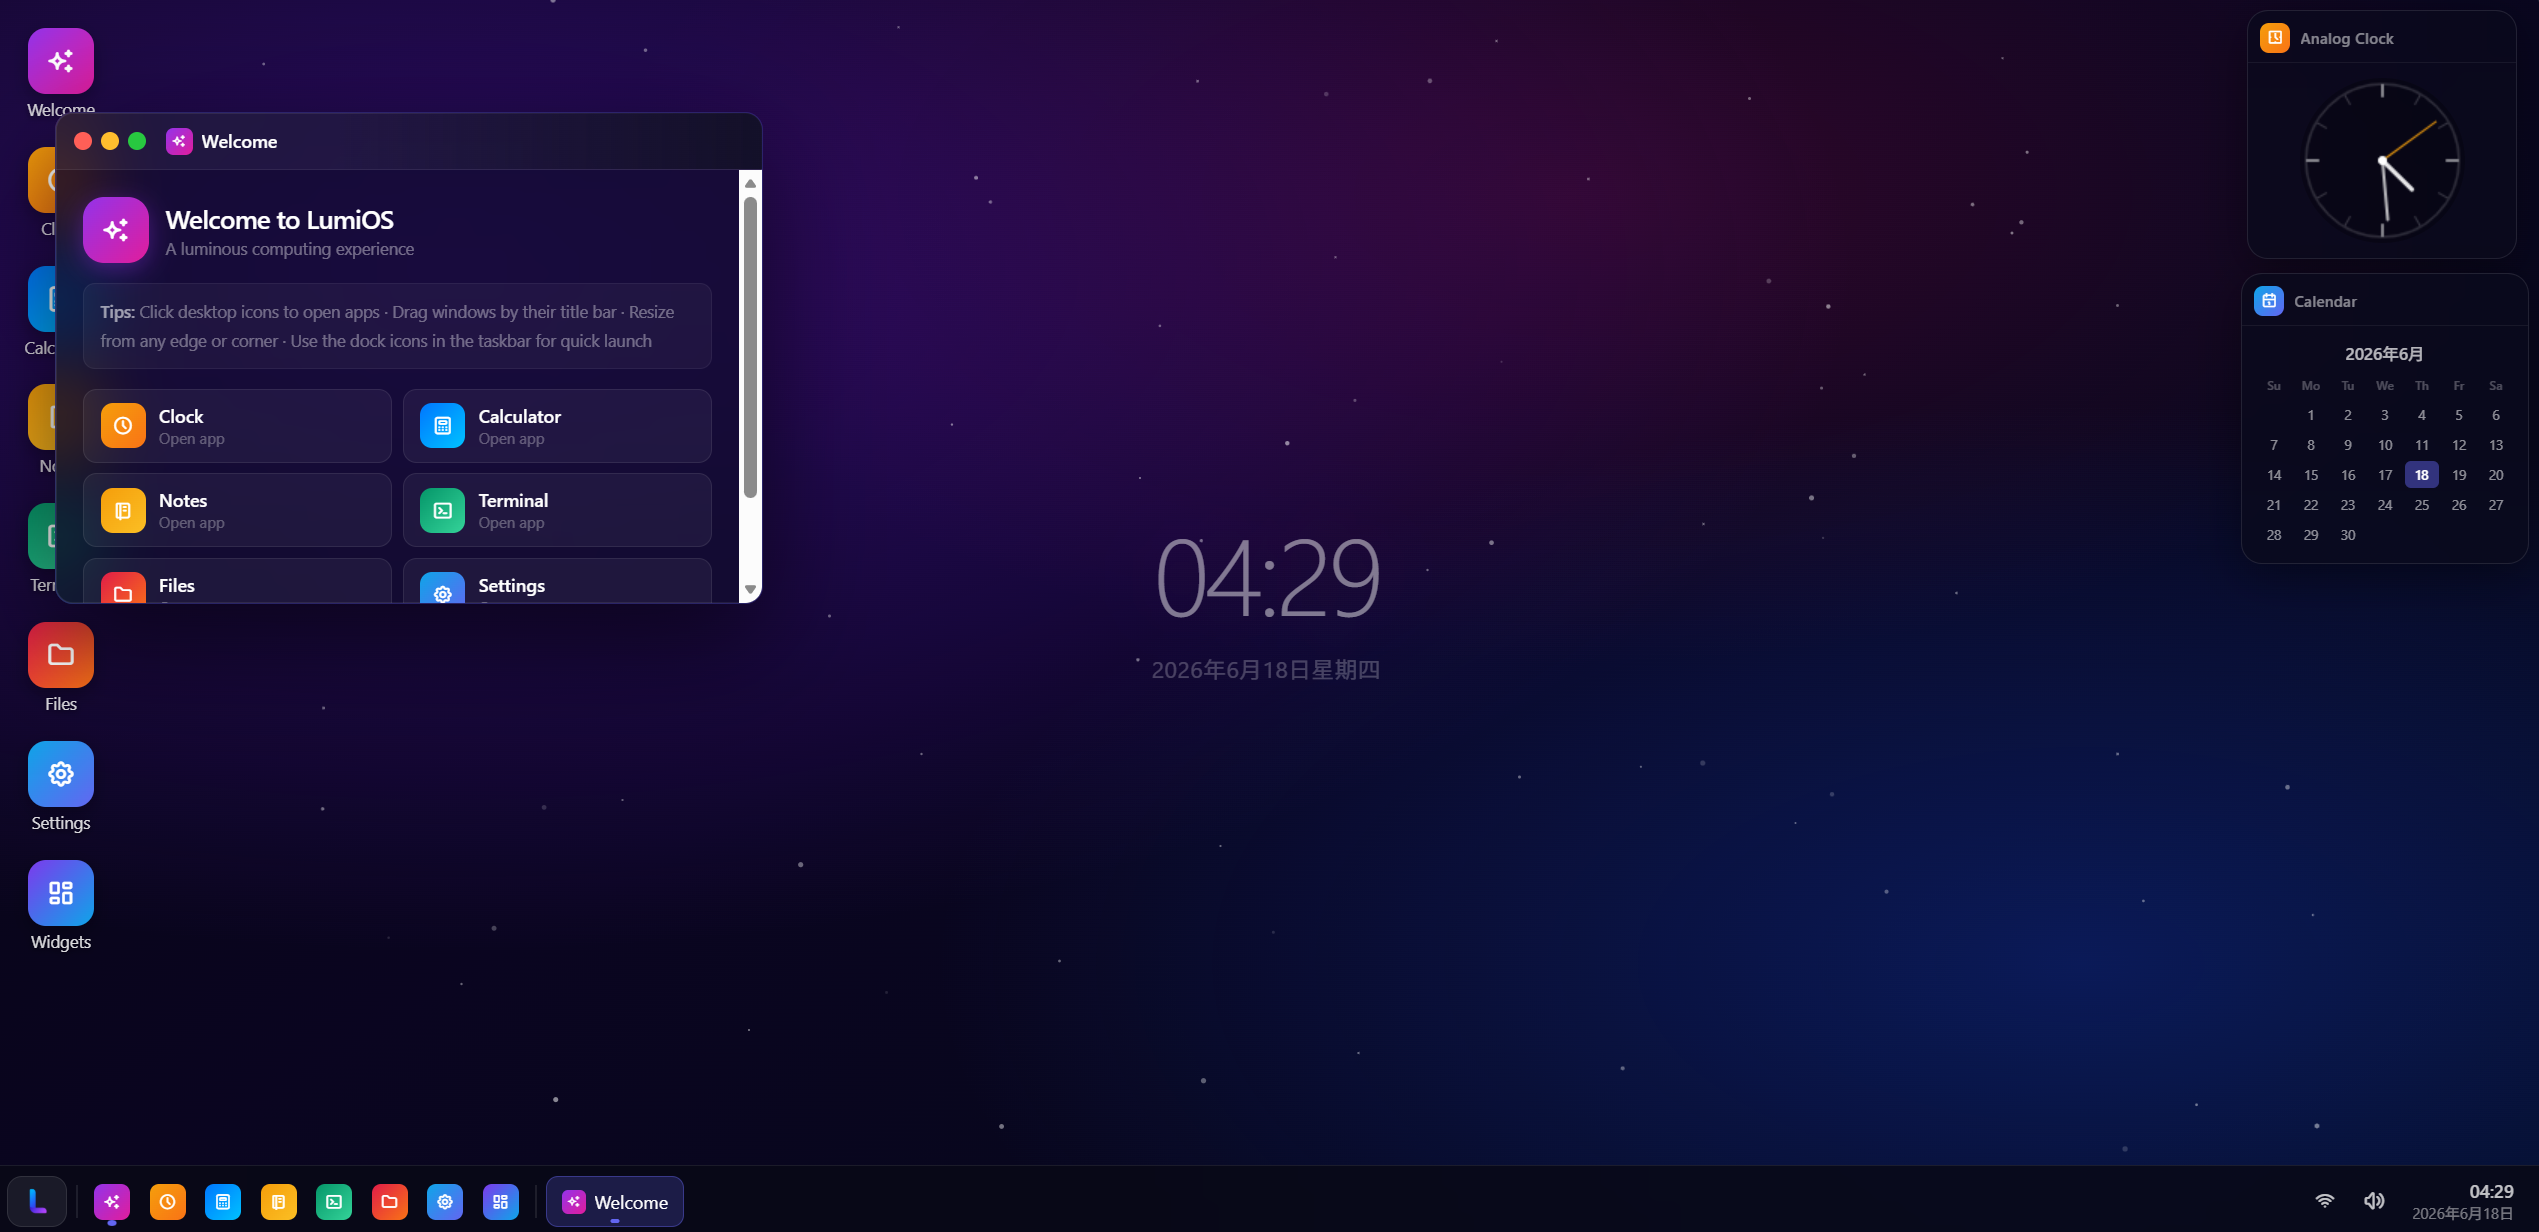
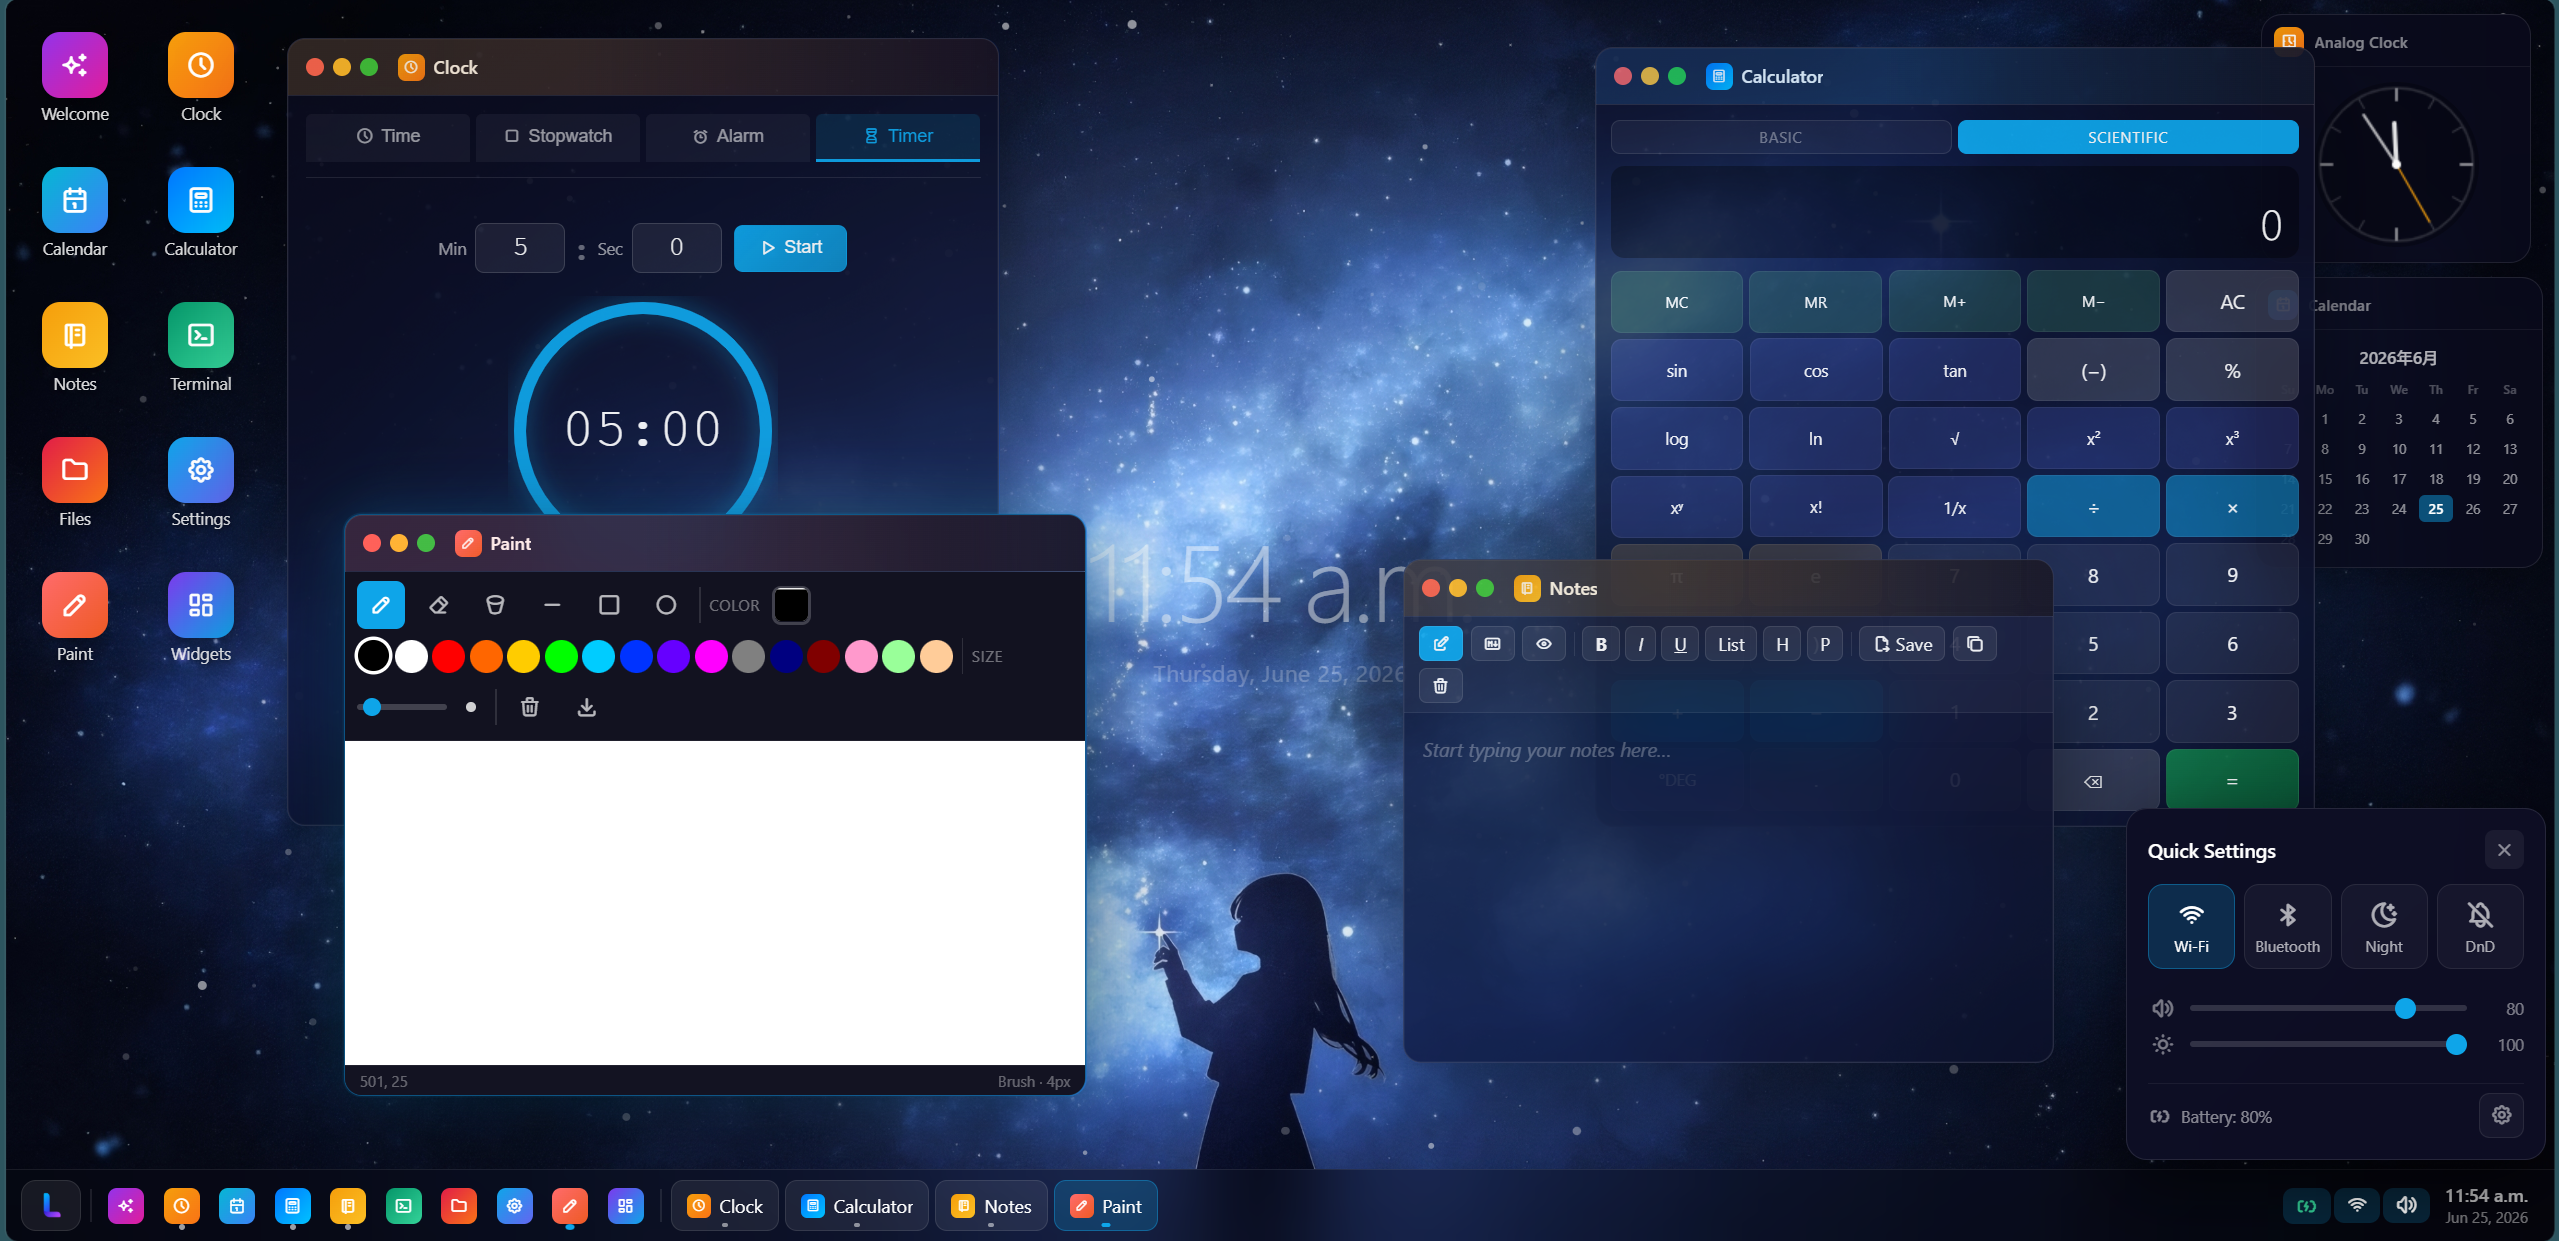
Readme Update

diff --git a/README.md b/README.md
@@ -21,6 +21,12 @@ LumiOS creates a web desktop just works the same as a normal desktop: draggable 
 + Custom wallpapers, app icons, and accent colors
 + Dark / light mode, adjustable brightness, adjustable taskbar opacity
 + Desktop widgets
++ Scientific calculator, markdown notes, file preview, and drawing tools
++ Clock with stopwatch, timer, and alarms; calendar with events and agenda
++ Notification settings, security panel, and about information
++ Weather, notes peek, and system stats widgets
++ Terminal with command execution and file system navigation
++ Welcome app for onboarding
 
 ## Apps
 | App | Description |
@@ -29,7 +35,44 @@ LumiOS creates a web desktop just works the same as a normal desktop: draggable 
 | **Calendar** | Month view, event creation, and agenda list |
 | **Calculator** | Standard four-function calculator |
 | **Notes** | Rich-text editor for notestaking|
-| **Terminal** | Simple terminal that allows commands to run |              (incomplete)
-| **Files** | File system |             (incomplete)
+| **Terminal** | Simple terminal with command execution and file system navigation |
+| **Files** | File system with navigation and preview |
 | **Settings** | Appearance, display, notifications, security, and about panels |
 | **Widgets** | Manage desktop-overlay widgets |
+| **Paint** | Drawing canvas with tools, colors, and shapes |
+| **Welcome** | Onboarding and getting started guide |
+
+## Demo
+Visit <[LumiOS](https://lxtimer.github.io/LumiOS/)> for live Demo
+
+## Project Structure
+
+```
+LumiOS/
+├── index.html
+├── assets/
+│   ├── icons/
+│   ├── wallpaper/
+│   └── LumiOS-1.png, LumiOS-2.png
+├── css/
+│   ├── apps/
+│   ├── theme/
+│   ├── ui/
+│   └── main.css
+├── js/
+│   ├── apps/       # Clock, Calendar, Paint, Notes, etc.
+│   ├── systems/    # Particles, theme handling
+│   ├── ui/         # Window management, taskbar
+│   ├── utils/      # Helper functions
+│   └── main.js
+└── README.md
+```
+
+## Installation
+
+1. Clone or download the repository
+2. Open `index.html` in a modern browser (Chrome, Firefox, Edge)
+
+
+## Credits
+Inspired by Puter, Prozilla OS, and OS.js.